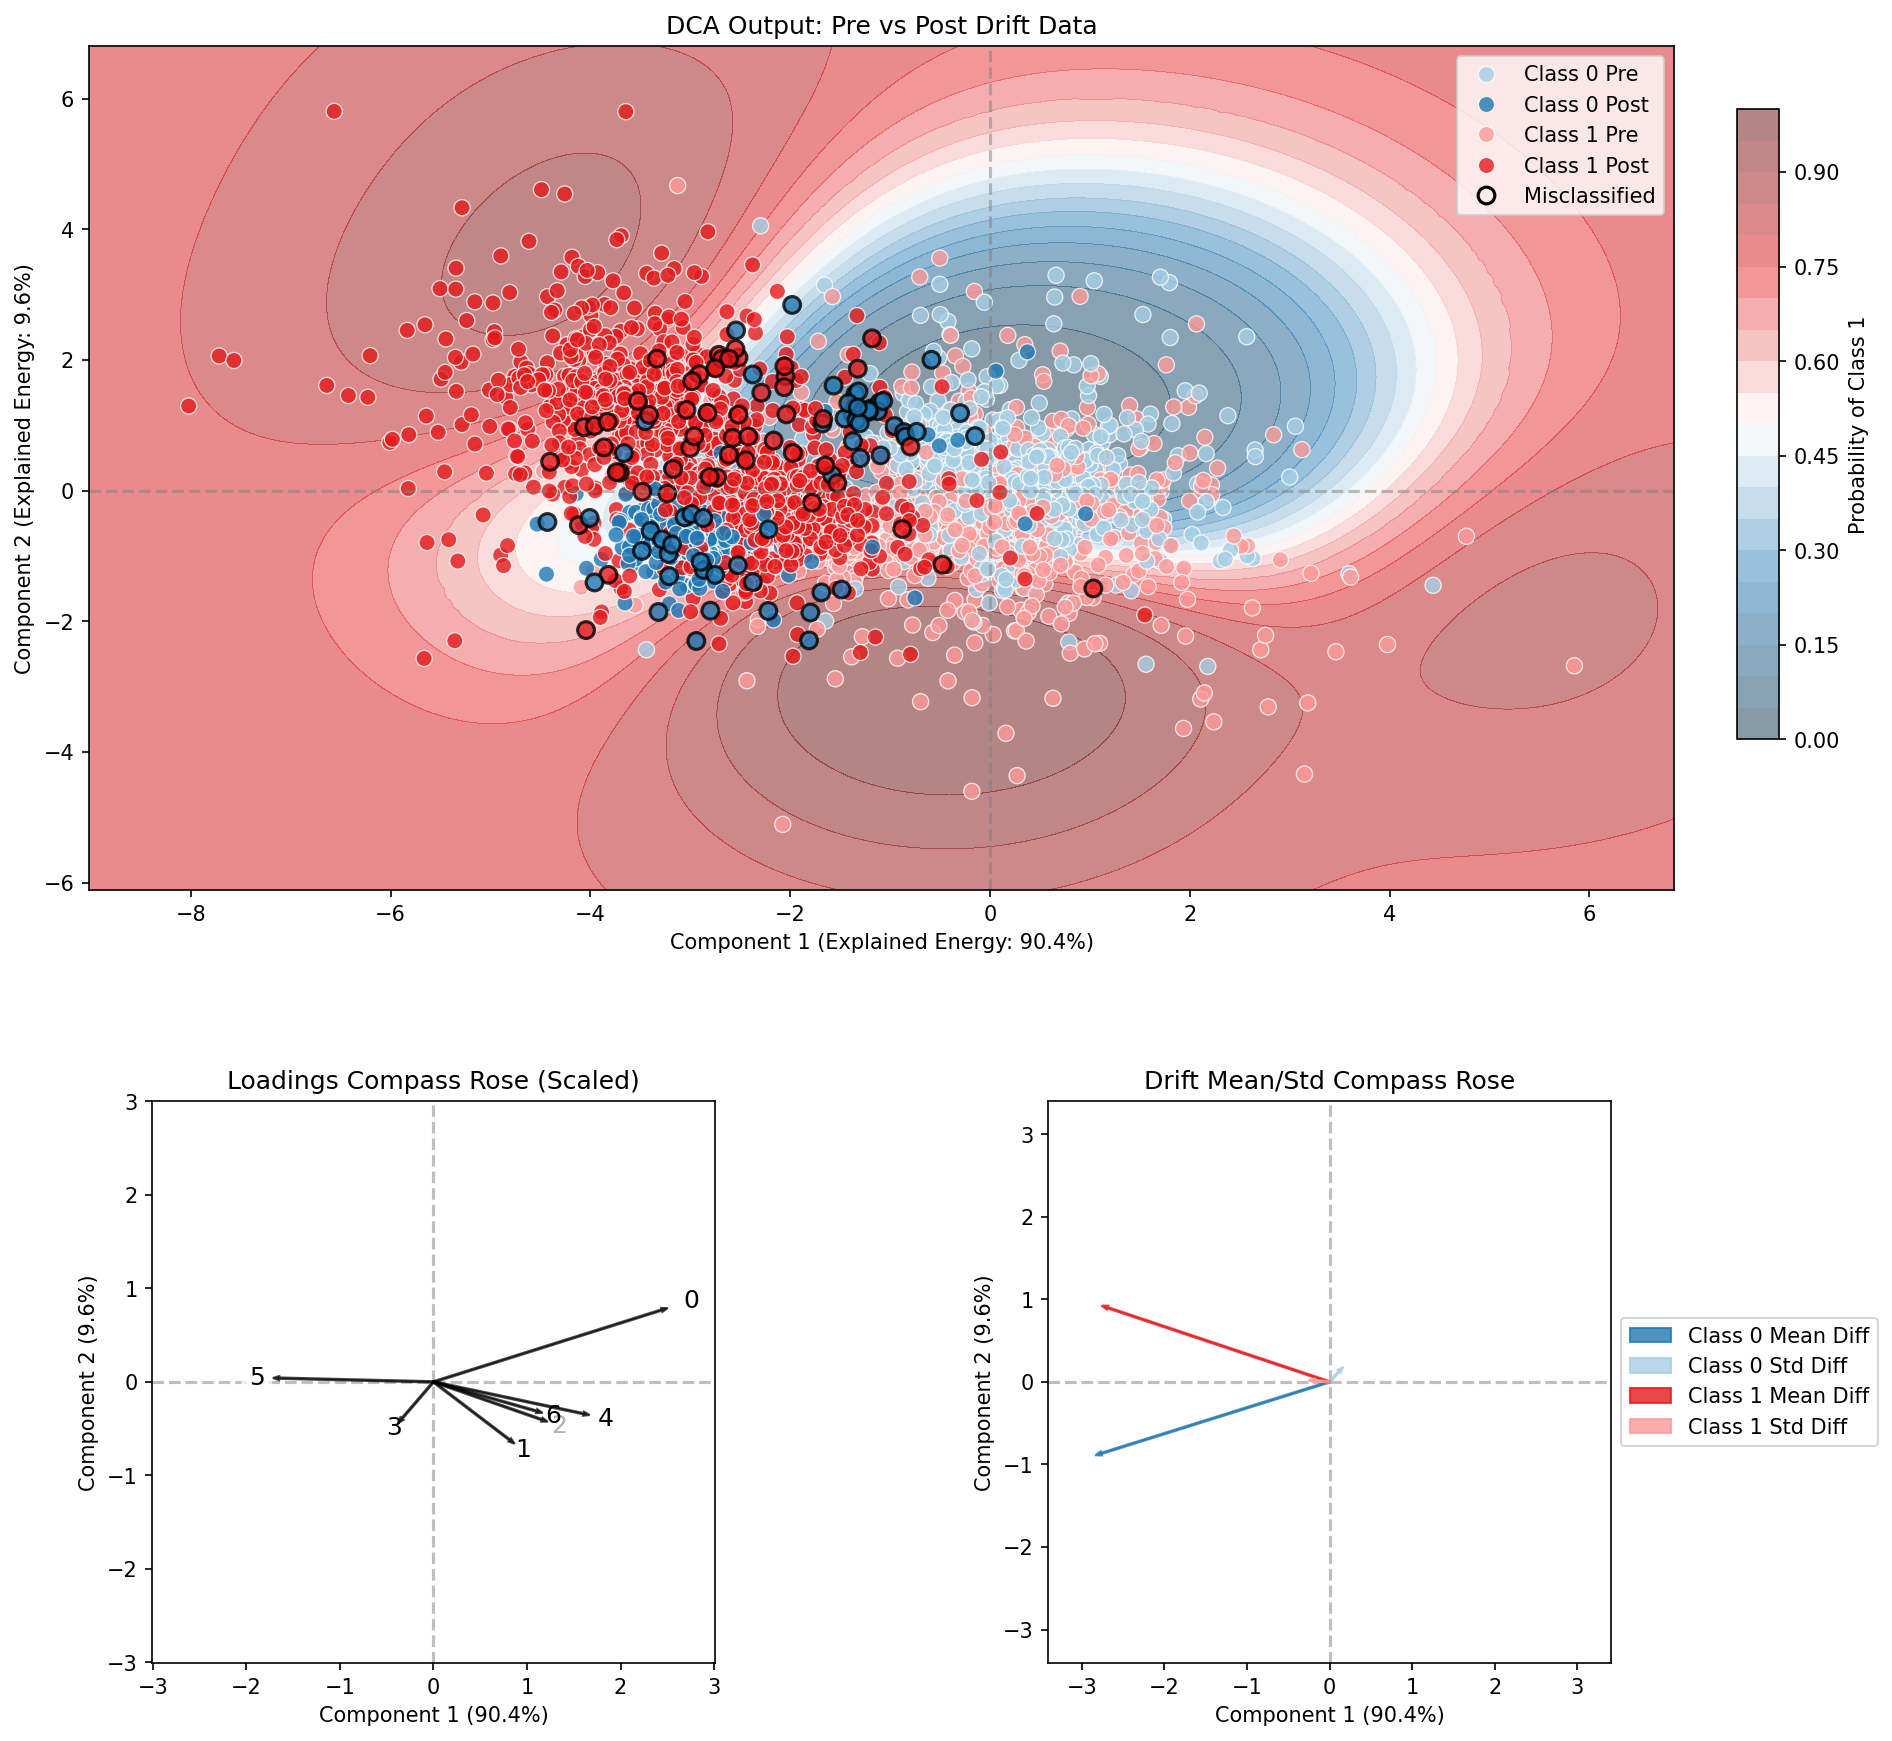
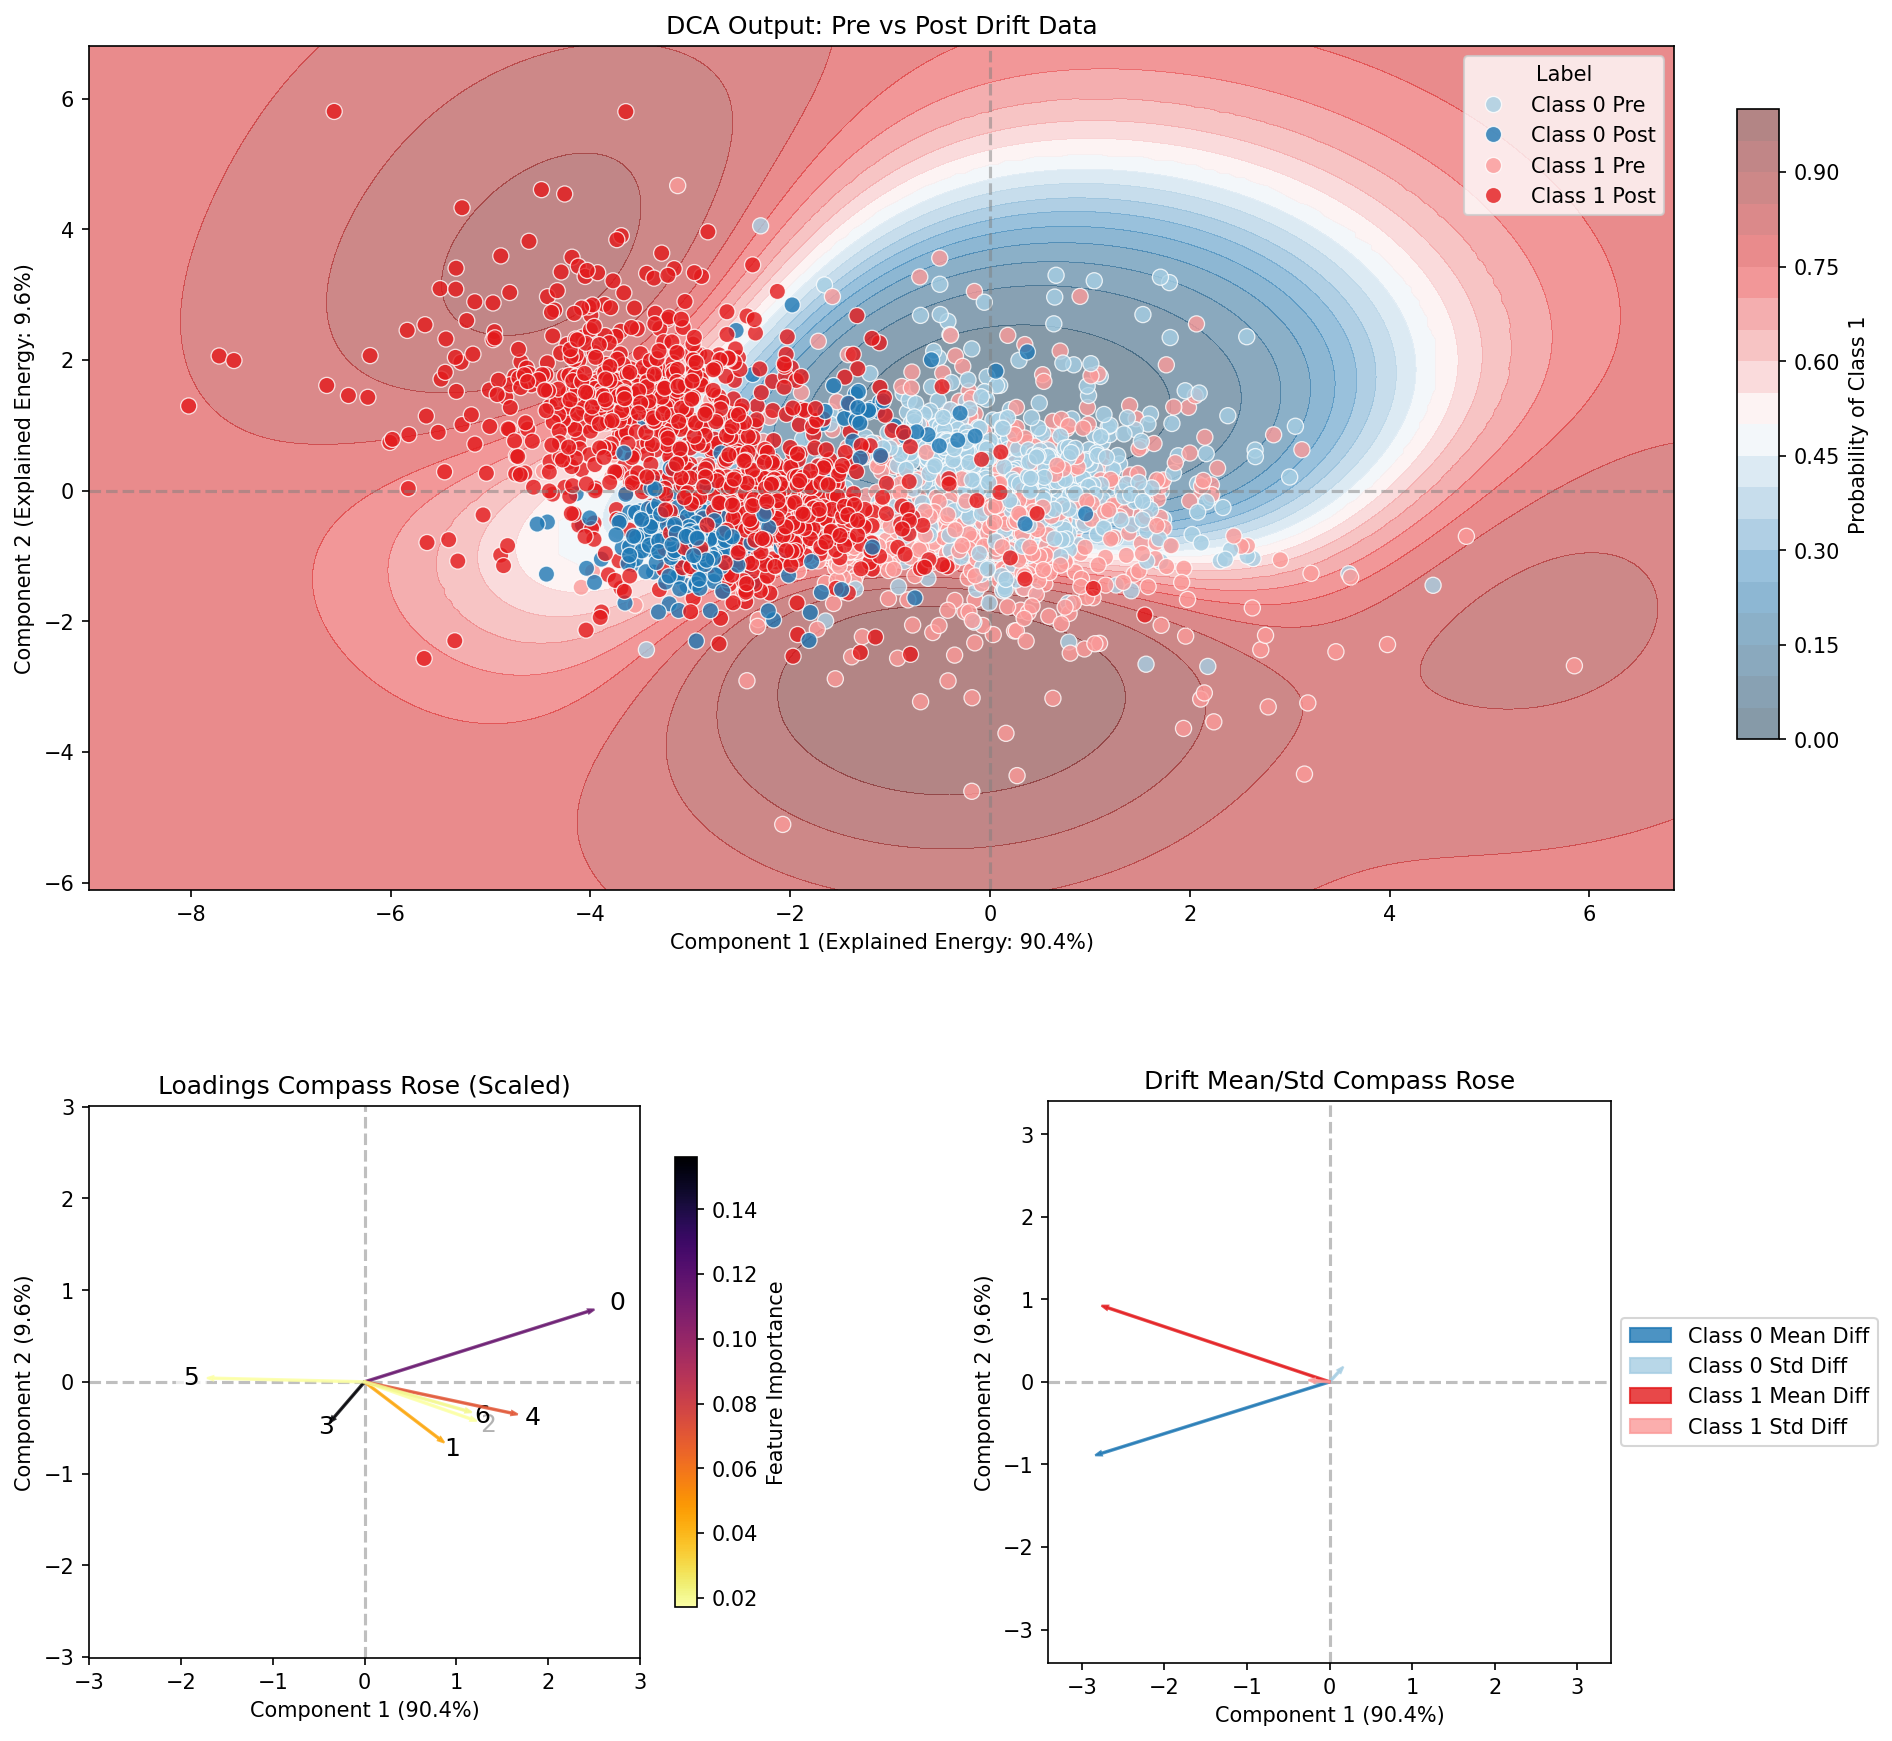
Add feature importance

diff --git a/scripts/run_dca.py b/scripts/run_dca.py
@@ -9,6 +9,7 @@ import matplotlib.gridspec as gridspec
 from sklearn.preprocessing import StandardScaler
 from sklearn.svm import SVC
 from sklearn.ensemble import RandomForestClassifier
+from sklearn.inspection import permutation_importance
 
 # Setup parent path so relative imports work if run as script
 import sys
@@ -79,6 +80,7 @@ def run_dca():
     parser.add_argument("--color_scheme", type=str, choices=["class", "drift"], default=None, help="Color scheme for plots")
     parser.add_argument("--highlight_misclassifications", action="store_true", help="Highlight post-drift points misclassified by the pre-drift model")
     parser.add_argument("--hide_pre_drift_points", action="store_true", help="Do not draw pre-drift points on the scatter plot")
+    parser.add_argument("--feature_importance", action="store_true", help="Use model explainability to color code feature importance on the Loadings compass rose")
 
     args = parser.parse_args()
 
@@ -112,6 +114,12 @@ def run_dca():
             logger.warning("Misclassifications cannot be highlighted without class targets. Disabling highlight.")
             args.highlight_misclassifications = False
 
+    # Validate feature_importance
+    if args.feature_importance:
+        if args.drift_mode == "data" or args.no_target or len(classes) < 2:
+            logger.warning("Feature importance requires class targets. Disabling feature importance.")
+            args.feature_importance = False
+
     # Validate boundary
     if not args.no_boundary:
         if color_scheme == "drift":
@@ -120,7 +128,7 @@ def run_dca():
         elif args.drift_mode == "data" or args.no_target or len(classes) < 2:
             args.no_boundary = True
 
-    needs_model = (not args.no_boundary) or args.highlight_misclassifications
+    needs_model = (not args.no_boundary) or args.highlight_misclassifications or args.feature_importance
 
     # Train model on Pre-drift data ONLY
     pre_drift_model = None
@@ -131,6 +139,12 @@ def run_dca():
             pre_drift_model = RandomForestClassifier(n_estimators=100, max_depth=5, random_state=42)
             
         pre_drift_model.fit(X_pre, y_pre)
+
+    feature_importances = None
+    if args.feature_importance and pre_drift_model is not None:
+        logger.info("Calculating feature importances using permutation importance...")
+        result = permutation_importance(pre_drift_model, X_pre, y_pre, n_repeats=5, random_state=42, n_jobs=-1)
+        feature_importances = np.maximum(result.importances_mean, 0)
 
     # Fit DriftComponentAnalysis2 using SVD
     by_class = (args.drift_mode == "per-class")
@@ -167,7 +181,7 @@ def run_dca():
         plt.subplots_adjust(right=0.88, hspace=0.3, wspace=0.3)
 
     # Plot 2: Loadings Compass Rose (Bottom Left)
-    plot_loadings_compass(dca, ax=ax_loadings, feature_names=feature_names, scale_loadings=(not args.unscaled_loadings))
+    plot_loadings_compass(dca, ax=ax_loadings, feature_names=feature_names, scale_loadings=(not args.unscaled_loadings), feature_importances=feature_importances)
 
     # Plot 3: Drift Compass Rose (Bottom Right)
     plot_drift_compass(dca, ax=ax_drift, classes=classes if args.drift_mode != "data" else None, color_scheme=color_scheme)

diff --git a/analysis_methods/dca2_utils.py b/analysis_methods/dca2_utils.py
@@ -174,10 +174,11 @@ def plot_dca_scatter(X_pre, y_pre, X_post, y_post, dca, ax, pre_drift_model=None
     
     return contour, is_discrete
 
-def plot_loadings_compass(dca, ax, feature_names=None, scale_loadings=False):
+def plot_loadings_compass(dca, ax, feature_names=None, scale_loadings=False, feature_importances=None):
     """
     Plots a compass rose containing loadings (PCA components representation).
     Optionally scales them by the raw singular values.
+    If feature_importances are provided, colors the arrows by importance and adds a colorbar.
     """
     loadings = dca.pca.components_[:2].T
     if scale_loadings:
@@ -197,14 +198,28 @@ def plot_loadings_compass(dca, ax, feature_names=None, scale_loadings=False):
     ax.set_xlim(-max_val, max_val)
     ax.set_ylim(-max_val, max_val)
     
+    if feature_importances is not None:
+        norm = mcolors.Normalize(vmin=np.min(feature_importances), vmax=np.max(feature_importances))
+        cmap = plt.get_cmap('inferno_r') # Grays
+        sm = plt.cm.ScalarMappable(cmap=cmap, norm=norm)
+        sm.set_array([])
+        colors = cmap(norm(feature_importances))
+    else:
+        colors = ["k"] * len(loadings)
+
     for i, arrow in enumerate(loadings):
-        ax.arrow(0, 0, arrow[0], arrow[1], color="k", alpha=0.7, 
+        color = colors[i]
+        ax.arrow(0, 0, arrow[0], arrow[1], color=color, alpha=0.8, 
                  width=0.005*max_val, length_includes_head=True, zorder=10)
         
         label = feature_names[i] if feature_names is not None else f"F{i+1}"
         ax.text(arrow[0] * 1.1, arrow[1] * 1.1, label, ha='center', va='center', fontsize=12,
                 bbox=dict(boxstyle="round,pad=0.3", facecolor="white", alpha=0.7, edgecolor="none"))
                 
+    if feature_importances is not None:
+        cbar = plt.colorbar(sm, ax=ax, shrink=0.8, pad=0.05)
+        cbar.set_label('Feature Importance')
+
     # ax.set_title("Loadings Compass Rose (Unscaled)")
     # evr = dca.explained_variance_ratio_
     # ax.set_xlabel(f"Component 1 ({evr[0]*100:.1f}%)")
